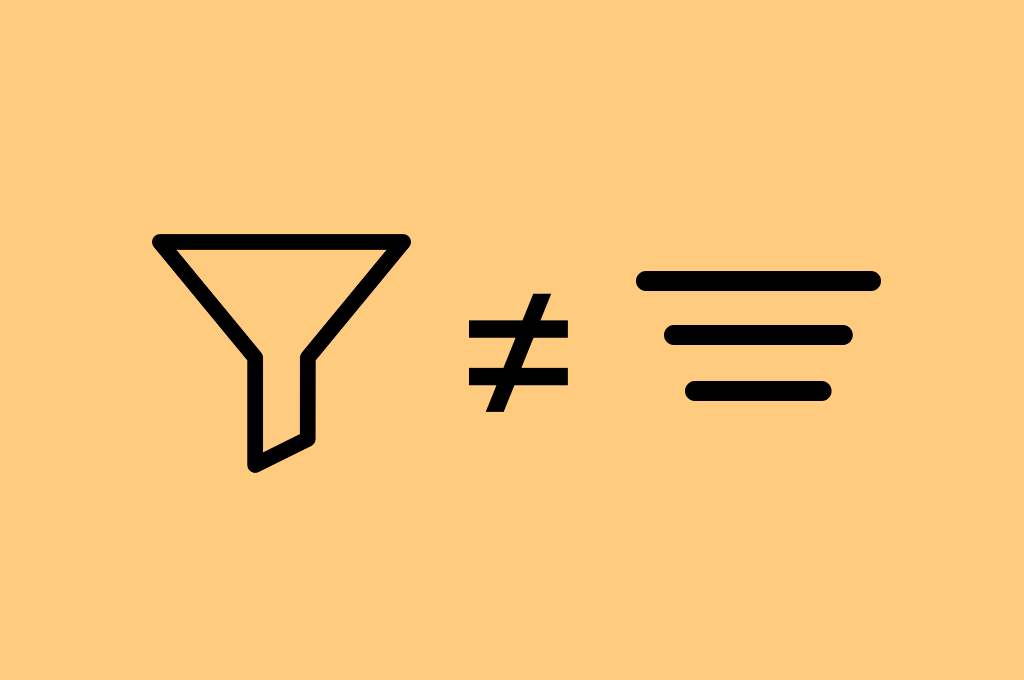
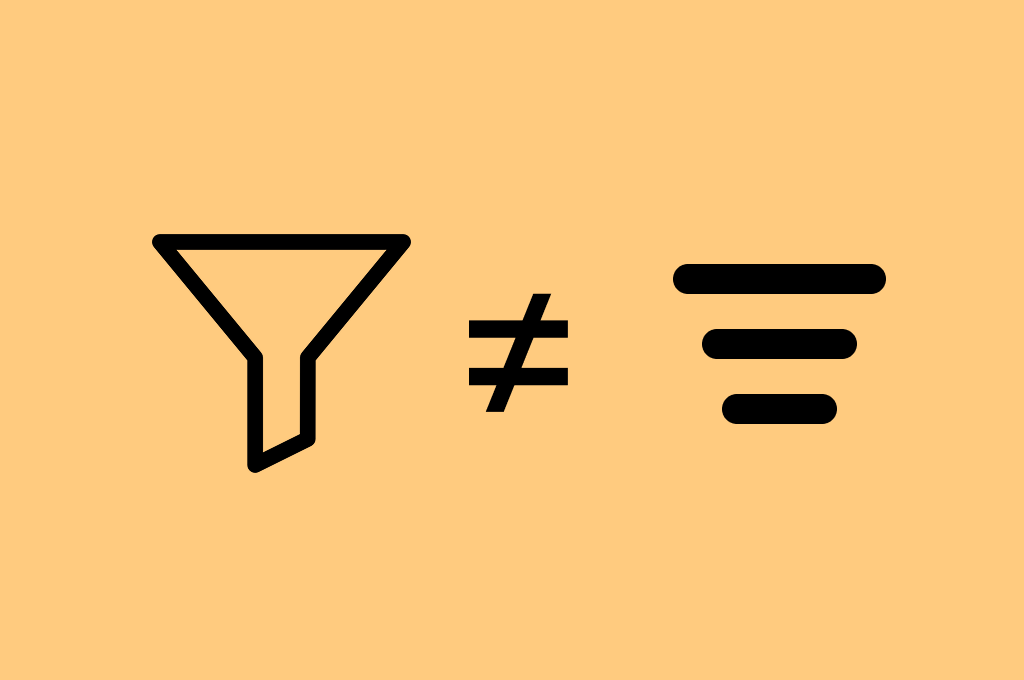
better filter image

Changed region(s): [[0.625, 0.3706, 0.875, 0.4324], [0.6562, 0.5559, 0.8438, 0.6485], [0.625, 0.4632, 0.8438, 0.525]]

diff --git a/filtering.html b/filtering.html
@@ -91,8 +91,8 @@
                     <h2>How we got here</h2>
                     <h3>Research: understanding the problem</h3>
                     <p>We started by testing filter icons with real users. The classic funnel icon was the clear winner. Users immediately understood its meaning. Next, we conducted a comprehensive audit across all six Deque products, documenting how each one handled filtering.</p>
-                    <div class="case-study-image">
-                        <img src="img/filtering/filtering-best-practices.png" alt="Artboard of sticky notes of research, best practices, and insights about filtering.">
+                    <div class="case-study-image" style="width: 32rem;">
+                        <img src="img/filtering/filter-icons.png" alt="A funnel shaped icon that is not equal to an icon made up of three lines starting large at the top and smaller at the bottom.">
                     </div>
                     <p>We analyzed findings from Baymard, Nielsen Norman Group, and other UX research sources. We studied filtering implementations from Home Depot, IKEA, Walmart, Yahoo, Bing, and Google. We also examined products our users work in daily: GitHub, Jira, Slack, and Google Drive.</p>
                     <div class="case-study-image">
